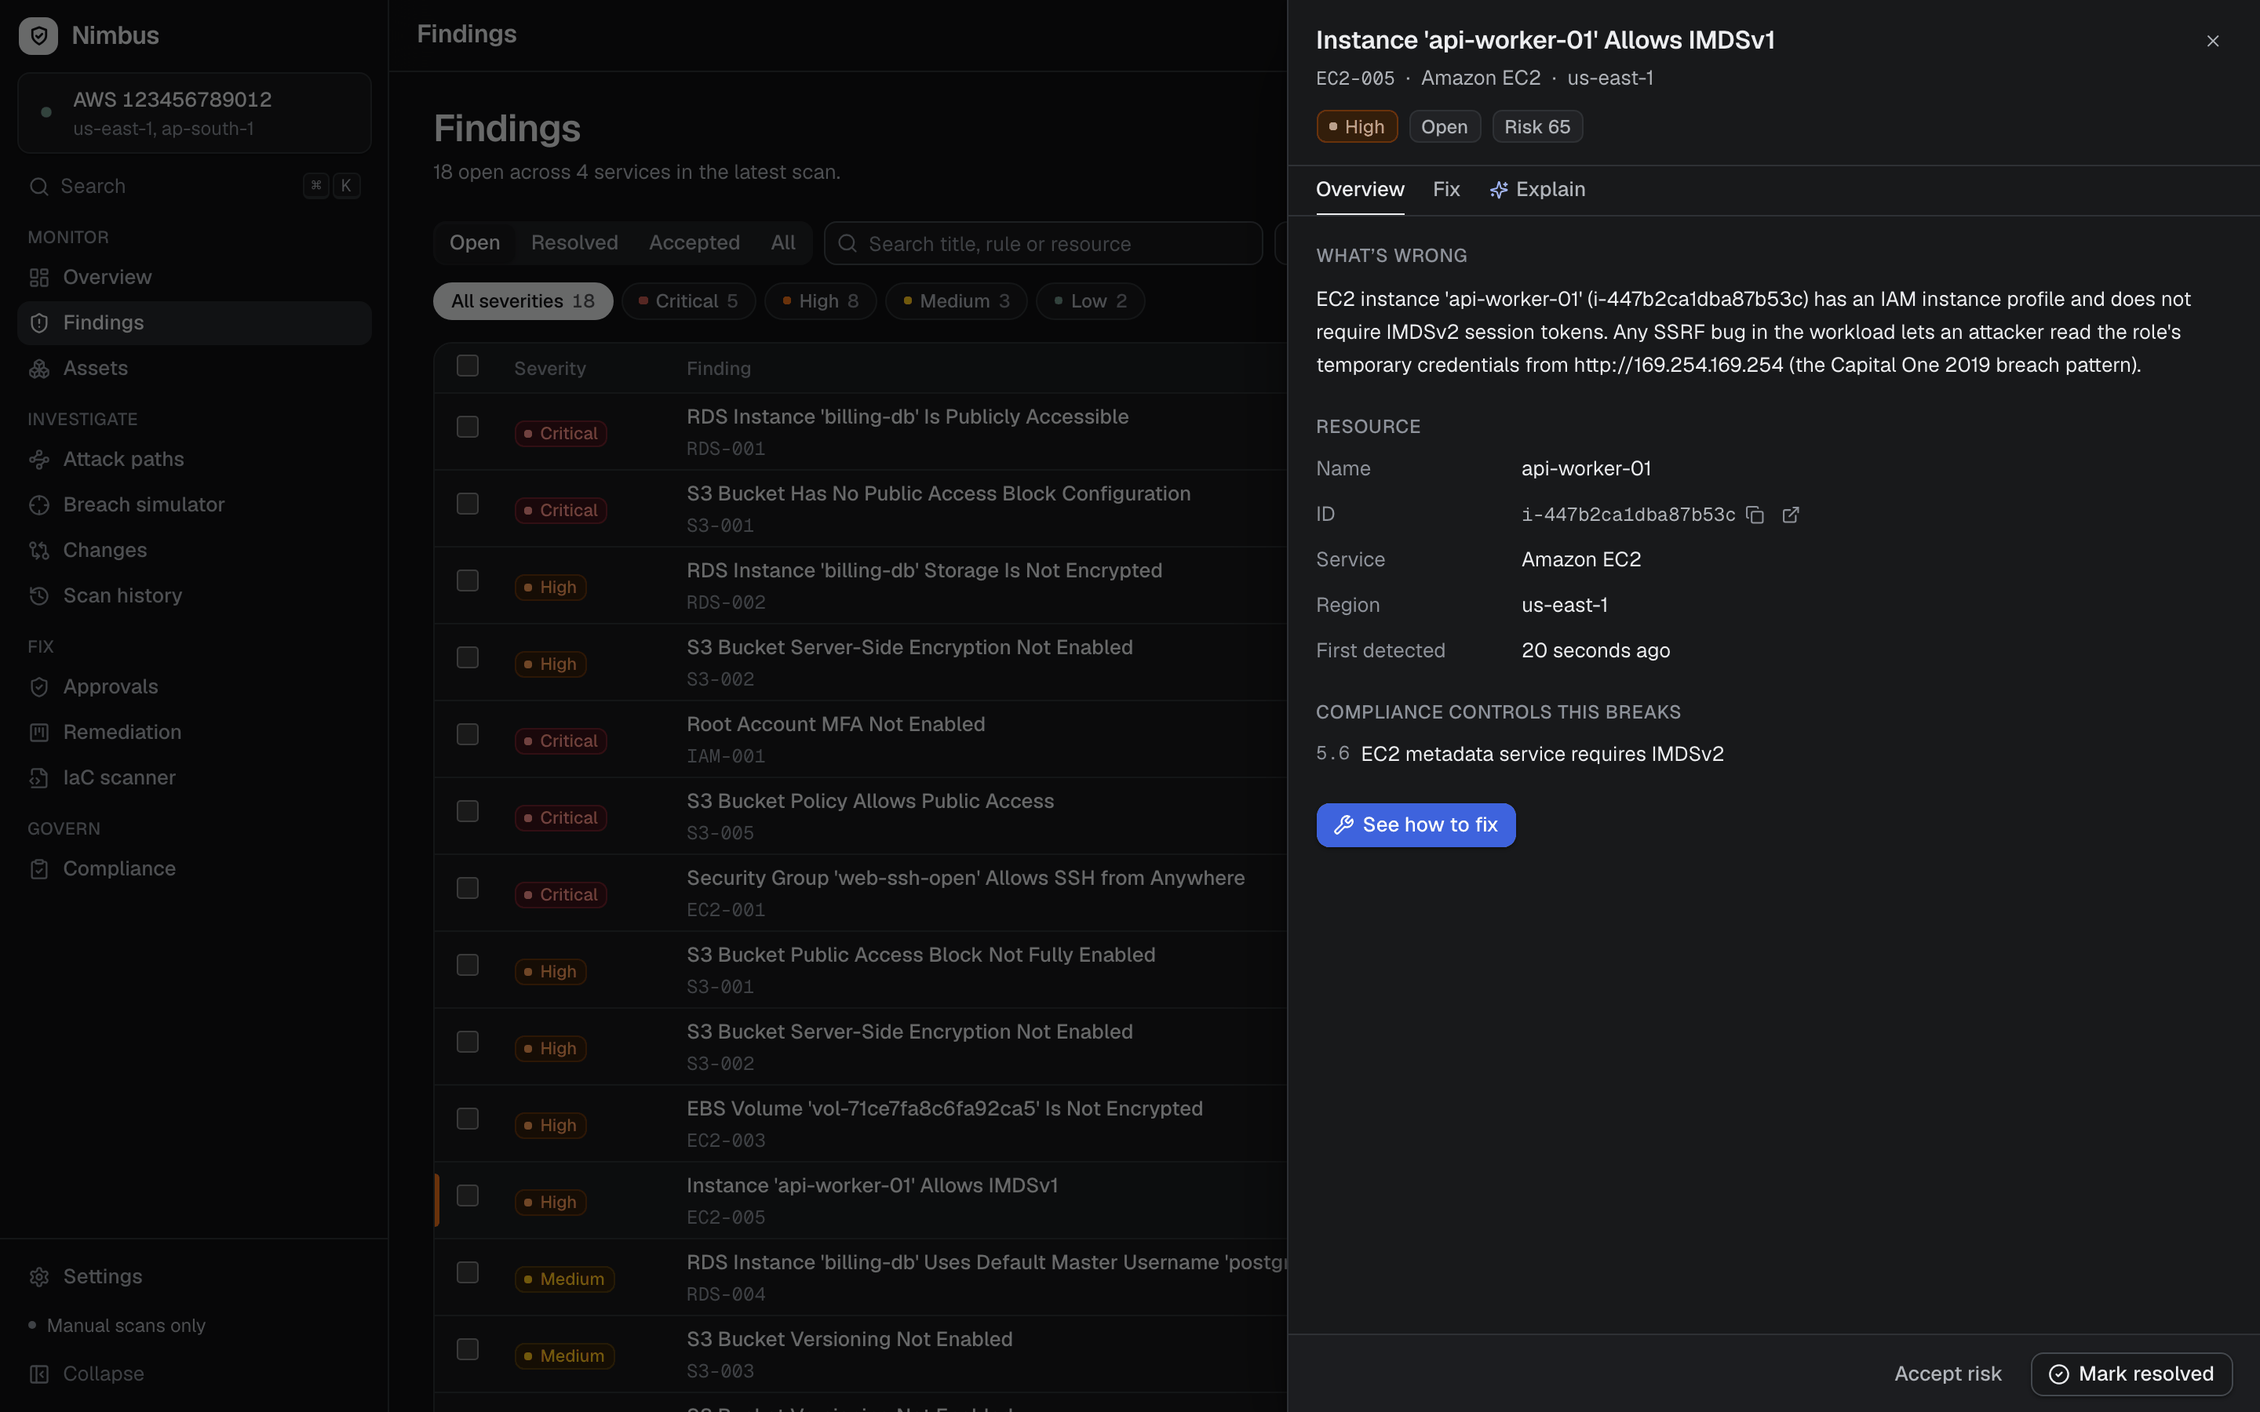
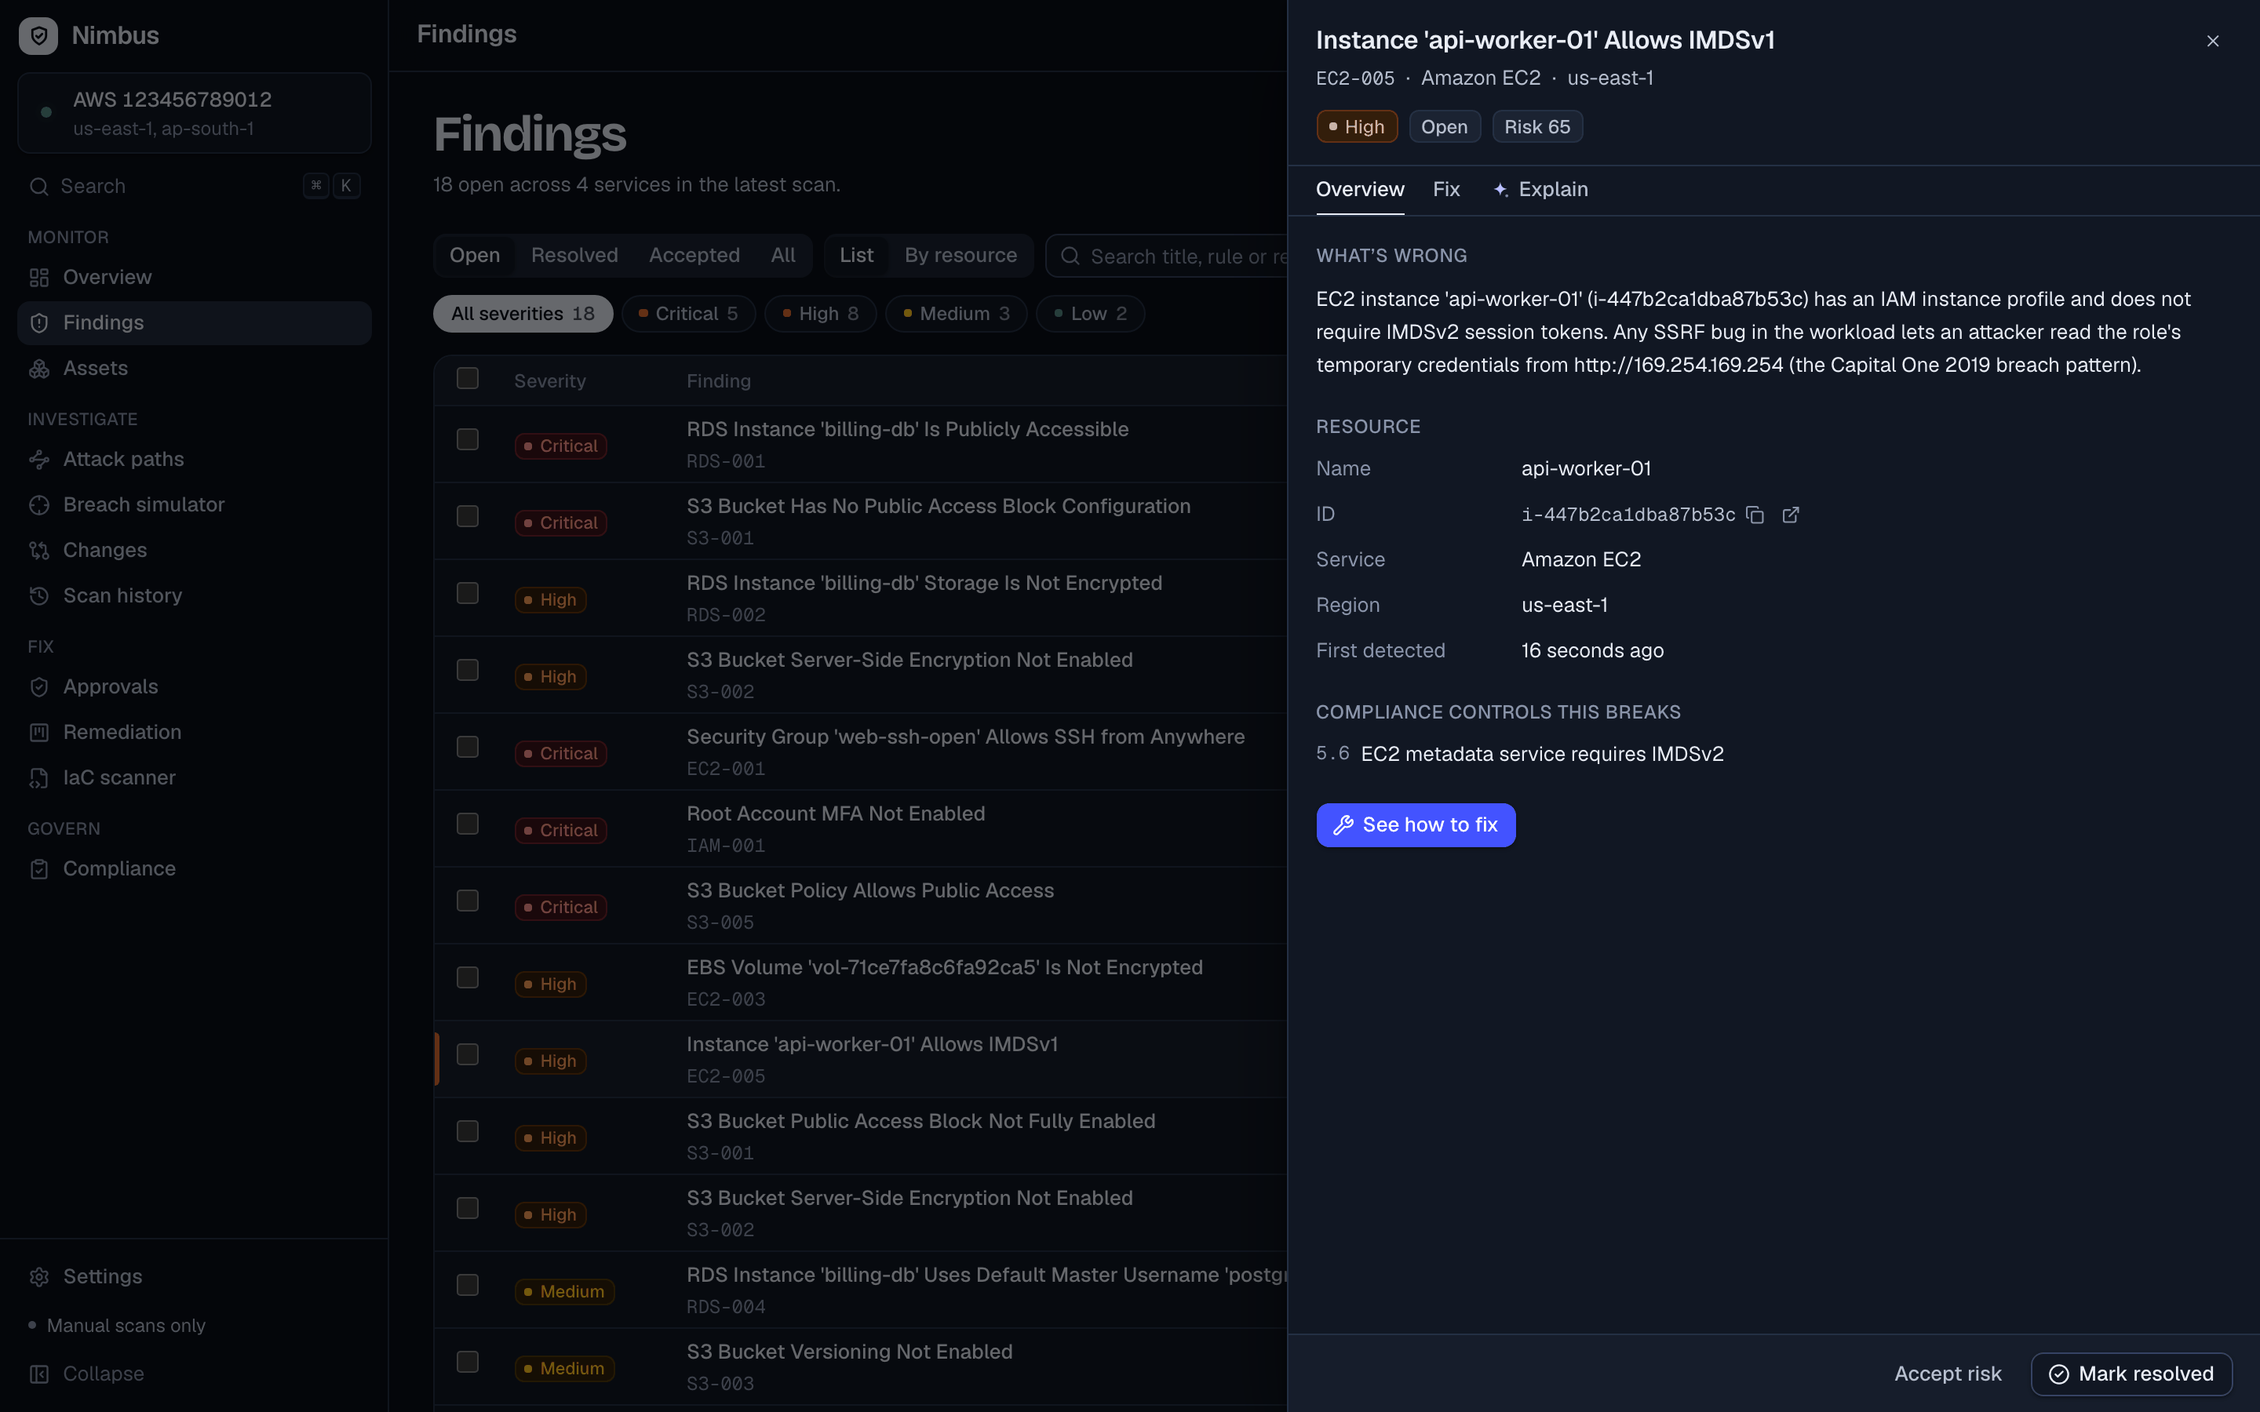
Phase 6: voice, phone, accessibility and README
- Overview's "Since the last scan" says what changed like a person
  would, and notices progress: "You fixed 3 findings and nothing new
  appeared. Nice work." (rules in lib/forecast.js, 3 unit tests); the
  counts roll.
- Accessibility test now covers /vesper; the phone no-sideways-scroll
  test covers /vesper, /compliance and the grouped findings view. All
  pass in both themes.
- README: forecast Overview and Vesper sections (new screenshot),
  findings by resource, Vesper and the wake-up screen in the feature
  table, React 19 / Vite 8 / Recharts 3 / NumberFlow / Bricolage in the
  stack, updated test counts (30 + 22 + 30), and every screenshot and
  the scan GIF retaken from the fake account.

diff --git a/frontend/src/__tests__/forecast.test.js b/frontend/src/__tests__/forecast.test.js
@@ -1,5 +1,5 @@
 import { describe, expect, it } from 'vitest'
-import { forecastFor } from '@/lib/forecast'
+import { changeSentence, forecastFor } from '@/lib/forecast'
 
 const top = { resource_name: 'billing-db', resource_id: 'arn:aws:rds:…:billing-db', service: 'rds' }
 
@@ -23,5 +23,19 @@ describe('forecastFor: the Overview weather comes only from scan data', () => {
     expect(forecastFor({ medium: 2, low: 1 }).why).toBe('Nothing critical or high is open. 3 lower-severity findings are worth a look this week.')
     expect(forecastFor({}).why).toBe('Nothing is open. Every check Nimbus runs is passing.')
     expect(forecastFor({}).wx).toBe('clear')
+  })
+})
+
+describe('changeSentence: what changed since the last scan, in plain words', () => {
+  it('celebrates pure progress', () => {
+    expect(changeSentence({ resolved_count: 3, new_count: 0, regressed_count: 0 })).toBe('You fixed 3 findings and nothing new appeared. Nice work.')
+    expect(changeSentence({ resolved_count: 1 })).toBe('You fixed 1 finding and nothing new appeared. Nice work.')
+  })
+  it('reports mixed changes in one sentence', () => {
+    expect(changeSentence({ resolved_count: 2, new_count: 1, regressed_count: 1 })).toBe('You fixed 2, 1 new finding appeared and 1 came back.')
+    expect(changeSentence({ new_count: 4 })).toBe('4 new findings appeared.')
+  })
+  it('says so when nothing changed', () => {
+    expect(changeSentence({})).toBe('No change since the last scan.')
   })
 })

diff --git a/frontend/src/pages/Dashboard.jsx b/frontend/src/pages/Dashboard.jsx
@@ -10,7 +10,7 @@ import {
   AnimatedNumber
 } from '@/components/ds'
 import GettingStarted from '@/components/GettingStarted'
-import { forecastFor } from '@/lib/forecast'
+import { changeSentence, forecastFor } from '@/lib/forecast'
 import VesperMark from '@/components/vesper/VesperMark'
 import { useSentinelStore } from '@/store/sentinelStore'
 import { useCan, useUser } from '@/auth/authStore'
@@ -313,6 +313,8 @@ function Exposure({ d }) {
   )
 }
 
+const changeTone = (s) => num(s.resolved_count) && !num(s.new_count) && !num(s.regressed_count) ? 'text-low-text' : 'text-fg-2'
+
 function SinceLastScan({ d }) {
   const s = d.drift?.summary
   const items = [
@@ -330,11 +332,12 @@ function SinceLastScan({ d }) {
             {items.map(([label, v, tone]) => (
               <div key={label} className="grid gap-0.5 px-3 py-2.5">
                 <dt className="text-xs text-fg-3">{label}</dt>
-                <dd className={cn('num text-lg font-semibold', num(v) ? tone : 'text-fg')}>{num(v)}</dd>
+                <dd><AnimatedNumber value={num(v)} className={cn('num text-lg font-semibold', num(v) ? tone : 'text-fg')} /></dd>
               </div>
             ))}
           </dl>
         )}
+        {s && <p className={cn('mt-3 text-sm', changeTone(s))}>{changeSentence(s)}</p>}
       </CardBody>
     </Card>
   )

diff --git a/frontend/src/lib/forecast.js b/frontend/src/lib/forecast.js
@@ -28,3 +28,17 @@ export function forecastFor(stats, open = [], blast = null) {
            why: rest ? `Nothing critical or high is open. ${plural(rest, 'lower-severity finding')} ${rest === 1 ? 'is' : 'are'} worth a look this week.`
                      : 'Nothing is open. Every check Nimbus runs is passing.' }
 }
+
+/* Say what changed like a person would, and notice progress. */
+export function changeSentence(s) {
+  const fixed = num(s.resolved_count), added = num(s.new_count), back = num(s.regressed_count)
+  const n = (k, one) => `${k} ${one}${k === 1 ? '' : 's'}`
+  if (!fixed && !added && !back) return 'No change since the last scan.'
+  if (fixed && !added && !back) return `You fixed ${n(fixed, 'finding')} and nothing new appeared. Nice work.`
+  const parts = []
+  if (fixed) parts.push(`you fixed ${fixed}`)
+  if (added) parts.push(`${n(added, 'new finding')} appeared`)
+  if (back) parts.push(`${back} came back`)
+  const text = parts.join(', ').replace(/, ([^,]*)$/, ' and $1')
+  return text[0].toUpperCase() + text.slice(1) + '.'
+}

diff --git a/frontend/e2e/readme.spec.js b/frontend/e2e/readme.spec.js
@@ -43,6 +43,22 @@ test('pages · dark', async ({ page }) => {
   await shot(page, 'compliance', '/compliance')
 })
 
+test('vesper · dark', async ({ page }) => {
+  await useTheme(page, 'dark')
+  await signIn(page, 'engineer')
+  await page.keyboard.press('ControlOrMeta+j')
+  const panel = page.getByRole('dialog', { name: /Vesper/ })
+  await panel.getByRole('button', { name: 'What should I fix first?' }).click()
+  await expect(panel.getByRole('button', { name: 'Helpful', exact: true })).toBeVisible()
+  await shot(page, 'vesper')
+})
+
+test('findings by resource · dark', async ({ page }) => {
+  await useTheme(page, 'dark')
+  await signIn(page, 'admin')
+  await shot(page, 'findings-by-resource', '/findings?group=resource')
+})
+
 test('four-eyes approval · dark', async ({ browser }) => {
   const eng = await (await browser.newContext()).newPage()
   await useTheme(eng, 'dark')

diff --git a/frontend/e2e/flows.spec.js b/frontend/e2e/flows.spec.js
@@ -100,7 +100,7 @@ test.describe('phone', () => {
     await nav.getByRole('link', { name: 'Assets' }).click()
     await expect(page).toHaveURL(/\/assets/)
     await expect(nav).toBeHidden()
-    for (const path of ['/', '/findings', '/assets', '/approvals', '/scans', '/settings']) {
+    for (const path of ['/', '/findings', '/findings?group=resource', '/assets', '/compliance', '/approvals', '/scans', '/settings', '/vesper']) {
       await page.goto(path)
       await page.waitForLoadState('networkidle')
       const overflow = await page.evaluate(() => document.documentElement.scrollWidth - window.innerWidth)

diff --git a/frontend/e2e/a11y.spec.js b/frontend/e2e/a11y.spec.js
@@ -7,7 +7,7 @@ import { test, expect } from '@playwright/test'
 import AxeBuilder from '@axe-core/playwright'
 import { signIn, useTheme } from './helpers'
 
-const PAGES = ['/', '/findings', '/assets', '/topology', '/simulator', '/workflow', '/approvals', '/drift',
+const PAGES = ['/', '/vesper', '/findings', '/assets', '/topology', '/simulator', '/workflow', '/approvals', '/drift',
   '/compliance', '/scans', '/iac', '/settings']
 
 for (const theme of ['light', 'dark']) {

diff --git a/README.md b/README.md
@@ -8,10 +8,11 @@
 ![Version](https://img.shields.io/badge/version-1.3.0-3b5bdb)
 ![Python](https://img.shields.io/badge/Python-3.12-3776AB?logo=python&logoColor=white)
 ![FastAPI](https://img.shields.io/badge/FastAPI-0.115-009688?logo=fastapi&logoColor=white)
-![React](https://img.shields.io/badge/React-18-61DAFB?logo=react&logoColor=black)
+![React](https://img.shields.io/badge/React-19-61DAFB?logo=react&logoColor=black)
+![Vite](https://img.shields.io/badge/Vite-8-646CFF?logo=vite&logoColor=white)
 ![Tailwind](https://img.shields.io/badge/Tailwind-4-06B6D4?logo=tailwindcss&logoColor=white)
 ![Postgres](https://img.shields.io/badge/PostgreSQL-4169E1?logo=postgresql&logoColor=white)
-![Tests](https://img.shields.io/badge/tests-61%20passing-22c55e?logo=pytest&logoColor=white)
+![Tests](https://img.shields.io/badge/tests-82%20passing-22c55e?logo=pytest&logoColor=white)
 
 **Scans your AWS account, shows how an attacker would move through it, and fixes it only after a second person approves.**
 
@@ -56,6 +57,16 @@ An engineer **requests** a fix and a *different* approver **applies** it. Nimbus
 </tr>
 </table>
 
+### A forecast, not an alarm
+
+The Overview opens with the weather for your account, worked out only from scan data: a **storm warning** when anything critical is open, **scattered risk** when only high-severity findings are, **clear skies** otherwise. It names the riskiest resource, says why in one sentence, and lists **today's three fixes**. Numbers roll when a scan changes them, so you see things get better.
+
+### Meet Vesper, the assistant
+
+<img src="docs/readme/vesper.png" alt="Vesper answering 'What should I fix first?' with severity-coloured citation chips, actions and follow-up questions" width="100%">
+
+Press <kbd>⌘</kbd> <kbd>J</kbd> anywhere. Vesper answers **as it writes**, from your latest scan only, and **cites findings as chips** you can click. It knows which page and finding you're looking at, keeps **conversations per user** (nobody else can read them), and offers slash commands (`/fix`, `/explain`, `/report`) and follow-ups. It **can't change AWS**: fixes still go through a request and a second person's approval. Without an AI key it answers from scan facts and says so.
+
 ### Watch a scan happen
 
 <img src="docs/readme/live-scan.gif" alt="A scan filling a grid of services by region, from waiting to scanning to done, with a live percentage" width="100%">
@@ -89,7 +100,13 @@ Each cell is one unit of work: a service in a region. Progress is **pushed over 
 </tr>
 <tr>
 <td><b>Assets</b>: every EC2, S3, RDS, Lambda, DynamoDB, Secrets Manager and IAM resource, ranked by exposure.</td>
-<td><b>Compliance</b>: PASS / FAIL / NOT EVALUATED per control. Controls Nimbus couldn't see are never counted as a pass.</td>
+<td><b>Compliance</b>: a score ring per framework, and PASS / FAIL / NOT EVALUATED per control. Controls Nimbus couldn't see are never counted as a pass.</td>
+</tr>
+<tr>
+<td colspan="2"><img src="docs/readme/findings-by-resource.png" alt="Findings grouped under each resource"></td>
+</tr>
+<tr>
+<td colspan="2"><b>Findings by resource</b>: fixing usually happens one resource at a time, so group findings under each resource, riskiest first.</td>
 </tr>
 </table>
 
@@ -110,7 +127,8 @@ Each cell is one unit of work: a service in a region. Progress is **pushed over 
 
 | | |
 |---|---|
-| **AI Copilot** (<kbd>⌘</kbd> <kbd>J</kbd>) | Multi-turn chat grounded only in your latest scan's findings (Gemini). Rate-limited per user. Gives an honest factual summary when AI is off. |
+| **Vesper** (<kbd>⌘</kbd> <kbd>J</kbd>) | Streamed, cited answers from the latest scan (Gemini), saved per user, rate-limited per user. A full page at `/vesper` too. |
+| **Wakes up gracefully** | On free hosting the API sleeps; Nimbus says *Waking Nimbus up…*, retries on its own and signs you in when it's ready. |
 | **Command palette** (<kbd>⌘</kbd> <kbd>K</kbd>) | Search findings and assets by name, ARN or rule id, and jump to any page. |
 | **Keyboard first** | `g d` overview, `g f` findings, `g t` attack paths, `g p` approvals; <kbd>?</kbd> lists them all. |
 | **Changes** | What's new, fixed or came back since the last scan, using stable AWS ids so drift is real. |
@@ -229,8 +247,8 @@ The repo includes config for **Render** (API + Postgres) and **Vercel** (UI):
 
 ```mermaid
 flowchart LR
-  UI["<b>Browser</b><br/>React 18 · Vite<br/>Tailwind 4 · React Flow"]
-  API["<b>FastAPI</b><br/>auth · roles · approvals<br/>Copilot"]
+  UI["<b>Browser</b><br/>React 19 · Vite 8<br/>Tailwind 4 · React Flow"]
+  API["<b>FastAPI</b><br/>auth · roles · approvals<br/>Vesper (streaming)"]
   SCAN["<b>Scan engine</b><br/>service × region units"]
   GRAPH["<b>Attack graph</b><br/>+ breach simulator"]
   DB[("<b>PostgreSQL</b><br/>SQLite locally")]
@@ -253,7 +271,8 @@ flowchart LR
 
 | Layer | Tech |
 |---|---|
-| UI | React 18, Vite 5, Tailwind CSS 4, Radix primitives, TanStack Query + Table, React Flow 12, Recharts, Motion |
+| UI | React 19, Vite 8 (Rolldown), Tailwind CSS 4, Radix primitives, TanStack Query + Table, React Flow 12, Recharts 3, NumberFlow |
+| Type | Geist and Geist Mono for reading; Bricolage Grotesque for titles and hero numbers (all self-hosted) |
 | API | Python 3.12, FastAPI, SQLAlchemy 2, Alembic, Pydantic 2 |
 | AWS | boto3 with cached, auto-refreshing AssumeRole sessions and adaptive retries |
 | Jobs | In-process background scans + scheduler, or Celery + Redis + beat |
@@ -265,13 +284,14 @@ flowchart LR
 backend/
   app/api/routes/      REST + auth endpoints
   app/scanner/aws/     IAM · S3 · EC2 · RDS rules; inventory collector
-  app/intelligence/    attack graph builder, compliance mapping, Copilot
+  app/intelligence/    attack graph builder, compliance mapping, Vesper's engine
   app/remediation/     read → change → verify → rollback
   app/auth/            hashing, tokens, role dependencies
   tests/               pytest on a moto account + dev_server_fake_aws.py
 frontend/
   src/pages/           one file per route
-  src/components/ds/   design system (buttons, cards, sheets, TimeAgo…)
+  src/components/ds/   design system (buttons, cards, sheets, TimeAgo, AnimatedNumber, ScoreRing…)
+  src/components/vesper/  the assistant: panel, full page, streaming client, citations
   e2e/                 Playwright flows, a11y, visual specs + baselines
 infra/aws/             IAM trust/remediator policies, Render setup script
 cli/nimbus_cli.py      IaC scanner for CI
@@ -300,7 +320,7 @@ Nimbus holds credentials to your cloud, so it's built to the standard it checks 
 
 | Role | Can |
 |---|---|
-| `viewer` | See everything, watch running scans, use the Copilot |
+| `viewer` | See everything, watch running scans, ask Vesper |
 | `engineer` | + run scans, triage findings, preview and **request** fixes, scan IaC |
 | `approver` | + **approve or reject** fixes (approving is what changes AWS) |
 | `admin` | + add people, change roles, reset passwords, deactivate accounts |
@@ -313,9 +333,9 @@ The UI never hides what you can't do. It disables the control and tells you why:
 
 | Suite | Count | What it proves |
 |---|---:|---|
-| **Backend** · pytest | 25 | Full pipeline on a fake AWS account; auth, RBAC, token rotation and reuse, lockout, four-eyes, progress grid |
-| **Route smoke** · Vitest | 15 | Every page renders real API data, signed in, without crashing |
-| **Browser** · Playwright | 21 | Sign-in, reload keeps session, viewer can't act, live scan grid, four-eyes approval, self-approval blocked, phone drawer, a11y, and **visual regression** (8 screens × desktop + Pixel 7) |
+| **Backend** · pytest | 30 | Full pipeline on a fake AWS account; auth, RBAC, token rotation and reuse, lockout, four-eyes, progress grid, Vesper streaming, citations and **per-user privacy** |
+| **Unit + route smoke** · Vitest | 22 | Every page renders real API data, signed in; the forecast and progress wording rules |
+| **Browser** · Playwright | 30 | Sign-in, reload keeps session, viewer can't act, live scan grid, four-eyes approval, self-approval blocked, Vesper (streaming, citations, history, older-API fallback), waking from sleep, findings by resource, phone layout, **axe in both themes**, and **visual regression** (8 screens × desktop + Pixel 7) |
 
 ```bash
 cd backend && pytest -q
